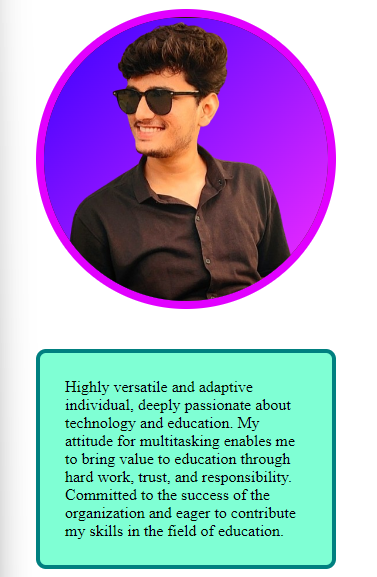
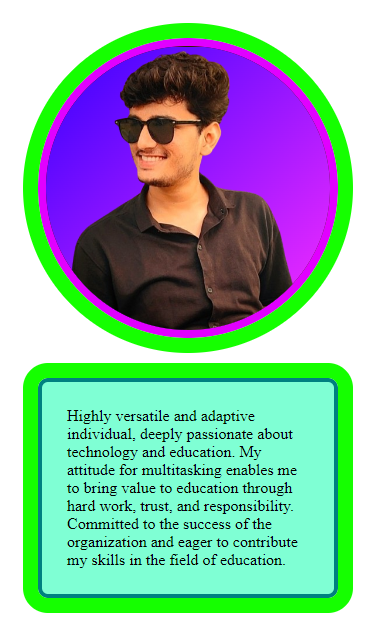
day 2

diff --git a/10_CSS-Box-Model/style.css b/10_CSS-Box-Model/style.css
@@ -17,7 +17,7 @@ h1{
     border: 4px solid teal;
     margin: 40px;
     border-radius: 10px;
-    
+    outline: 15px solid #15ff00;
 }
    
 
@@ -31,6 +31,7 @@ h1{
     margin: 40px;
     border-radius: 50%;
     overflow: hidden;
+    outline: 15px solid #15ff00;
 }
 
 img{

diff --git a/10_CSS-Box-Model/Readme.md b/10_CSS-Box-Model/Readme.md
@@ -56,6 +56,7 @@ The box model can be changed by using the `box-sizing` property. The default val
     margin: 40px;
     border-radius: 50%;
     overflow: hidden;
+    outline: 15px solid #15ff00;
 }
 
 img{
@@ -64,7 +65,8 @@ img{
     margin-top: -24px;
     margin-left: -25px;
     background: linear-gradient(to bottom right, #3700ff,#ff2eff);
+    
 }
 ```
-### image
+### Image
 ![box-model](./src/image.png)
